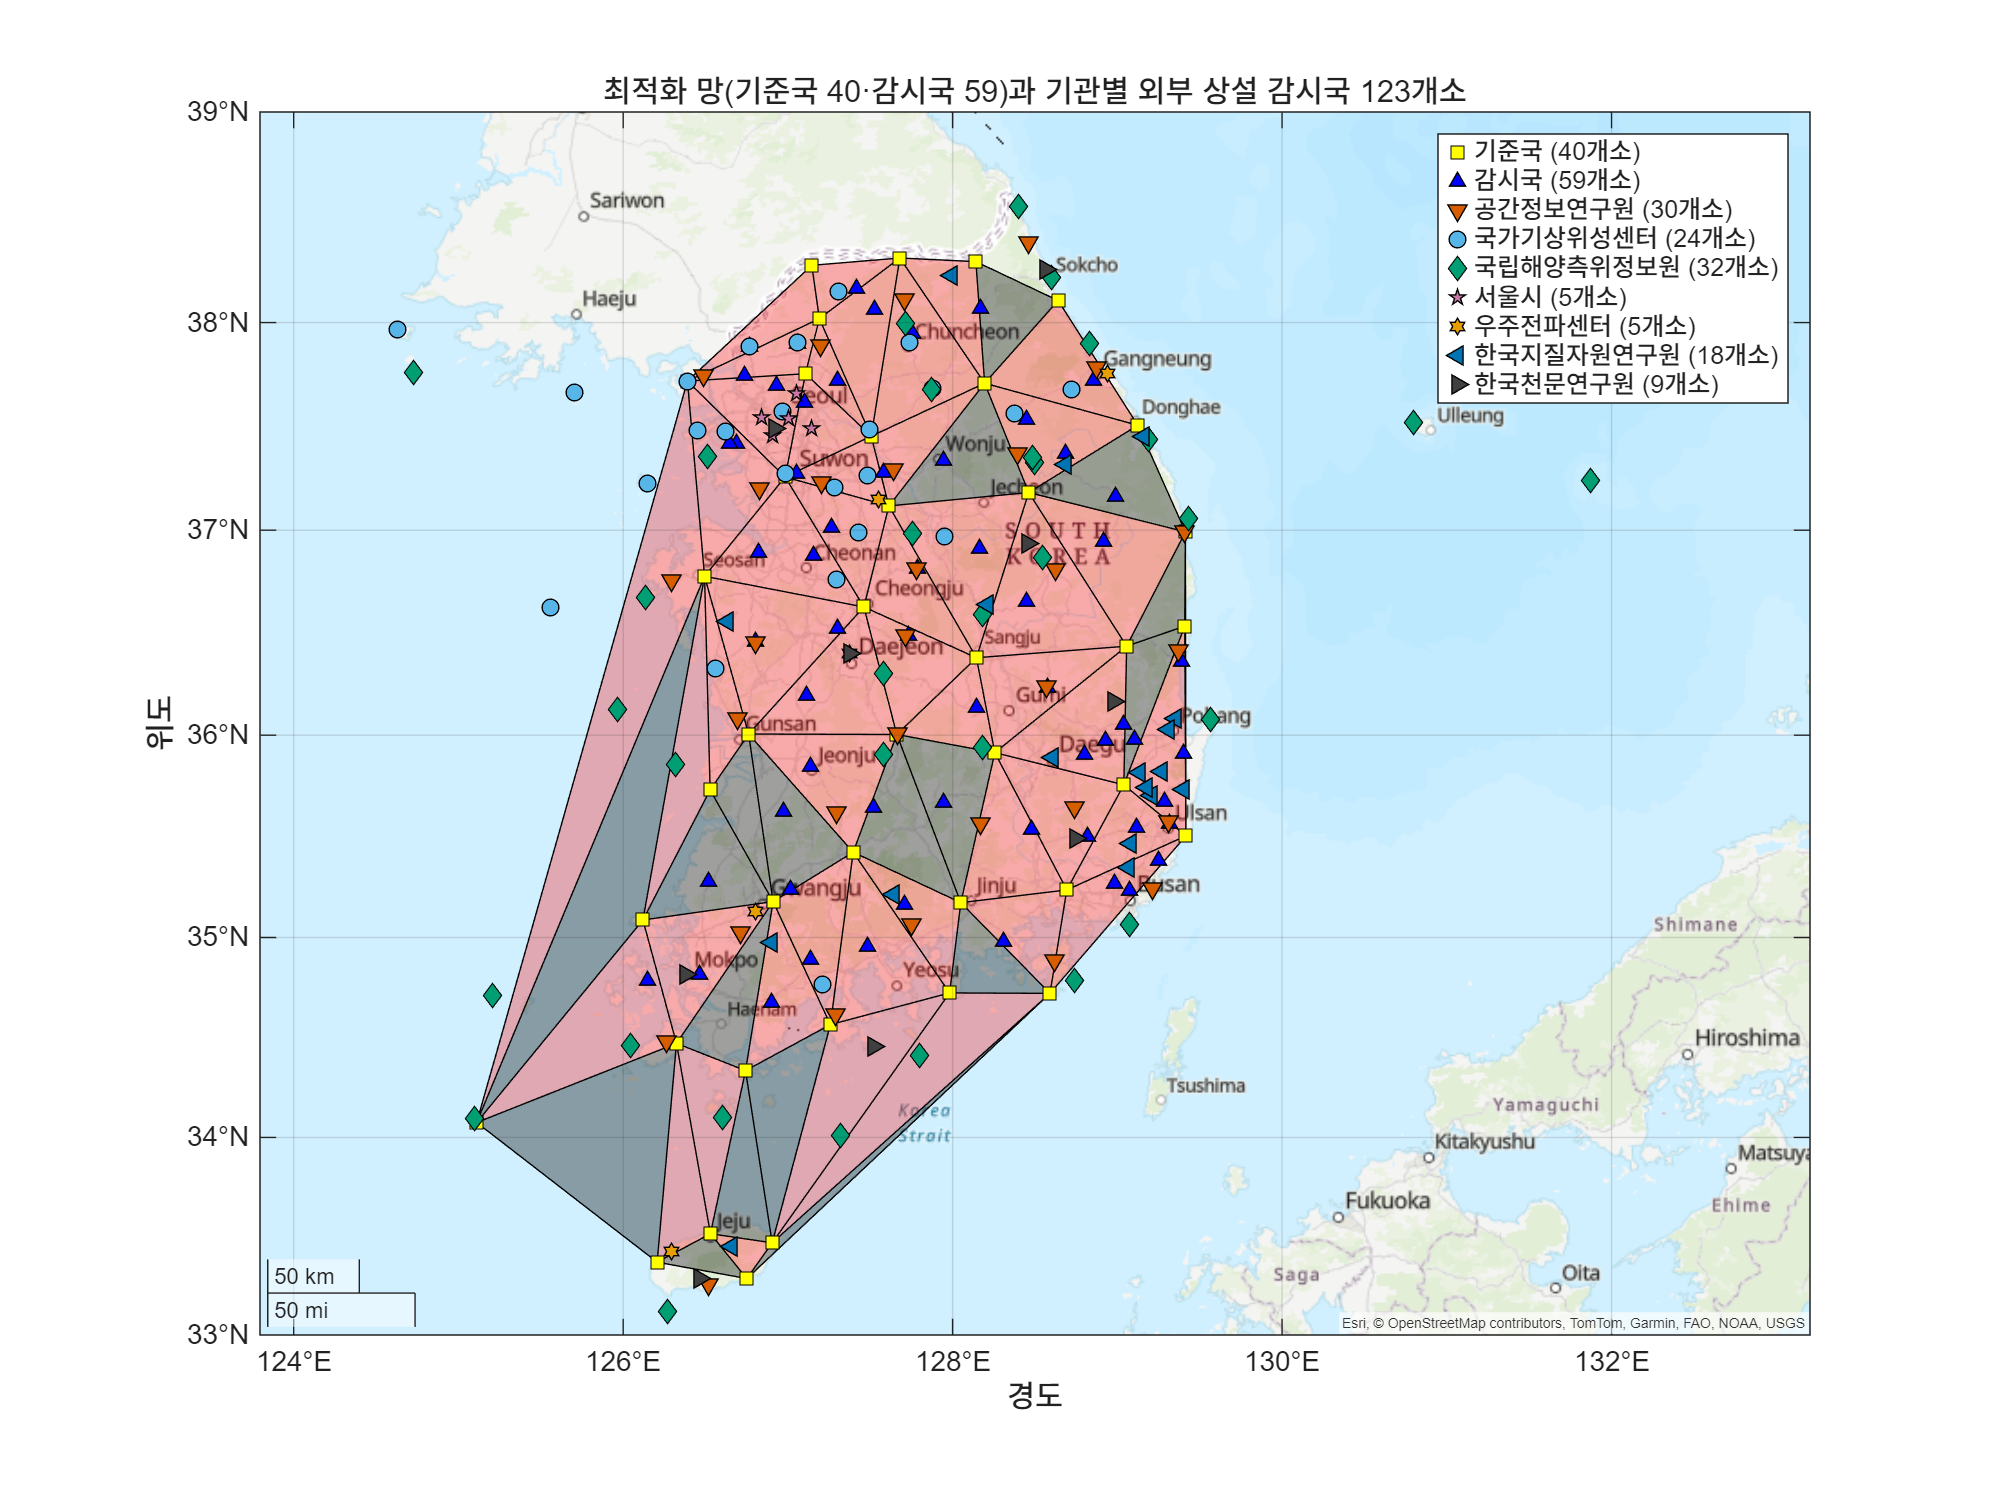
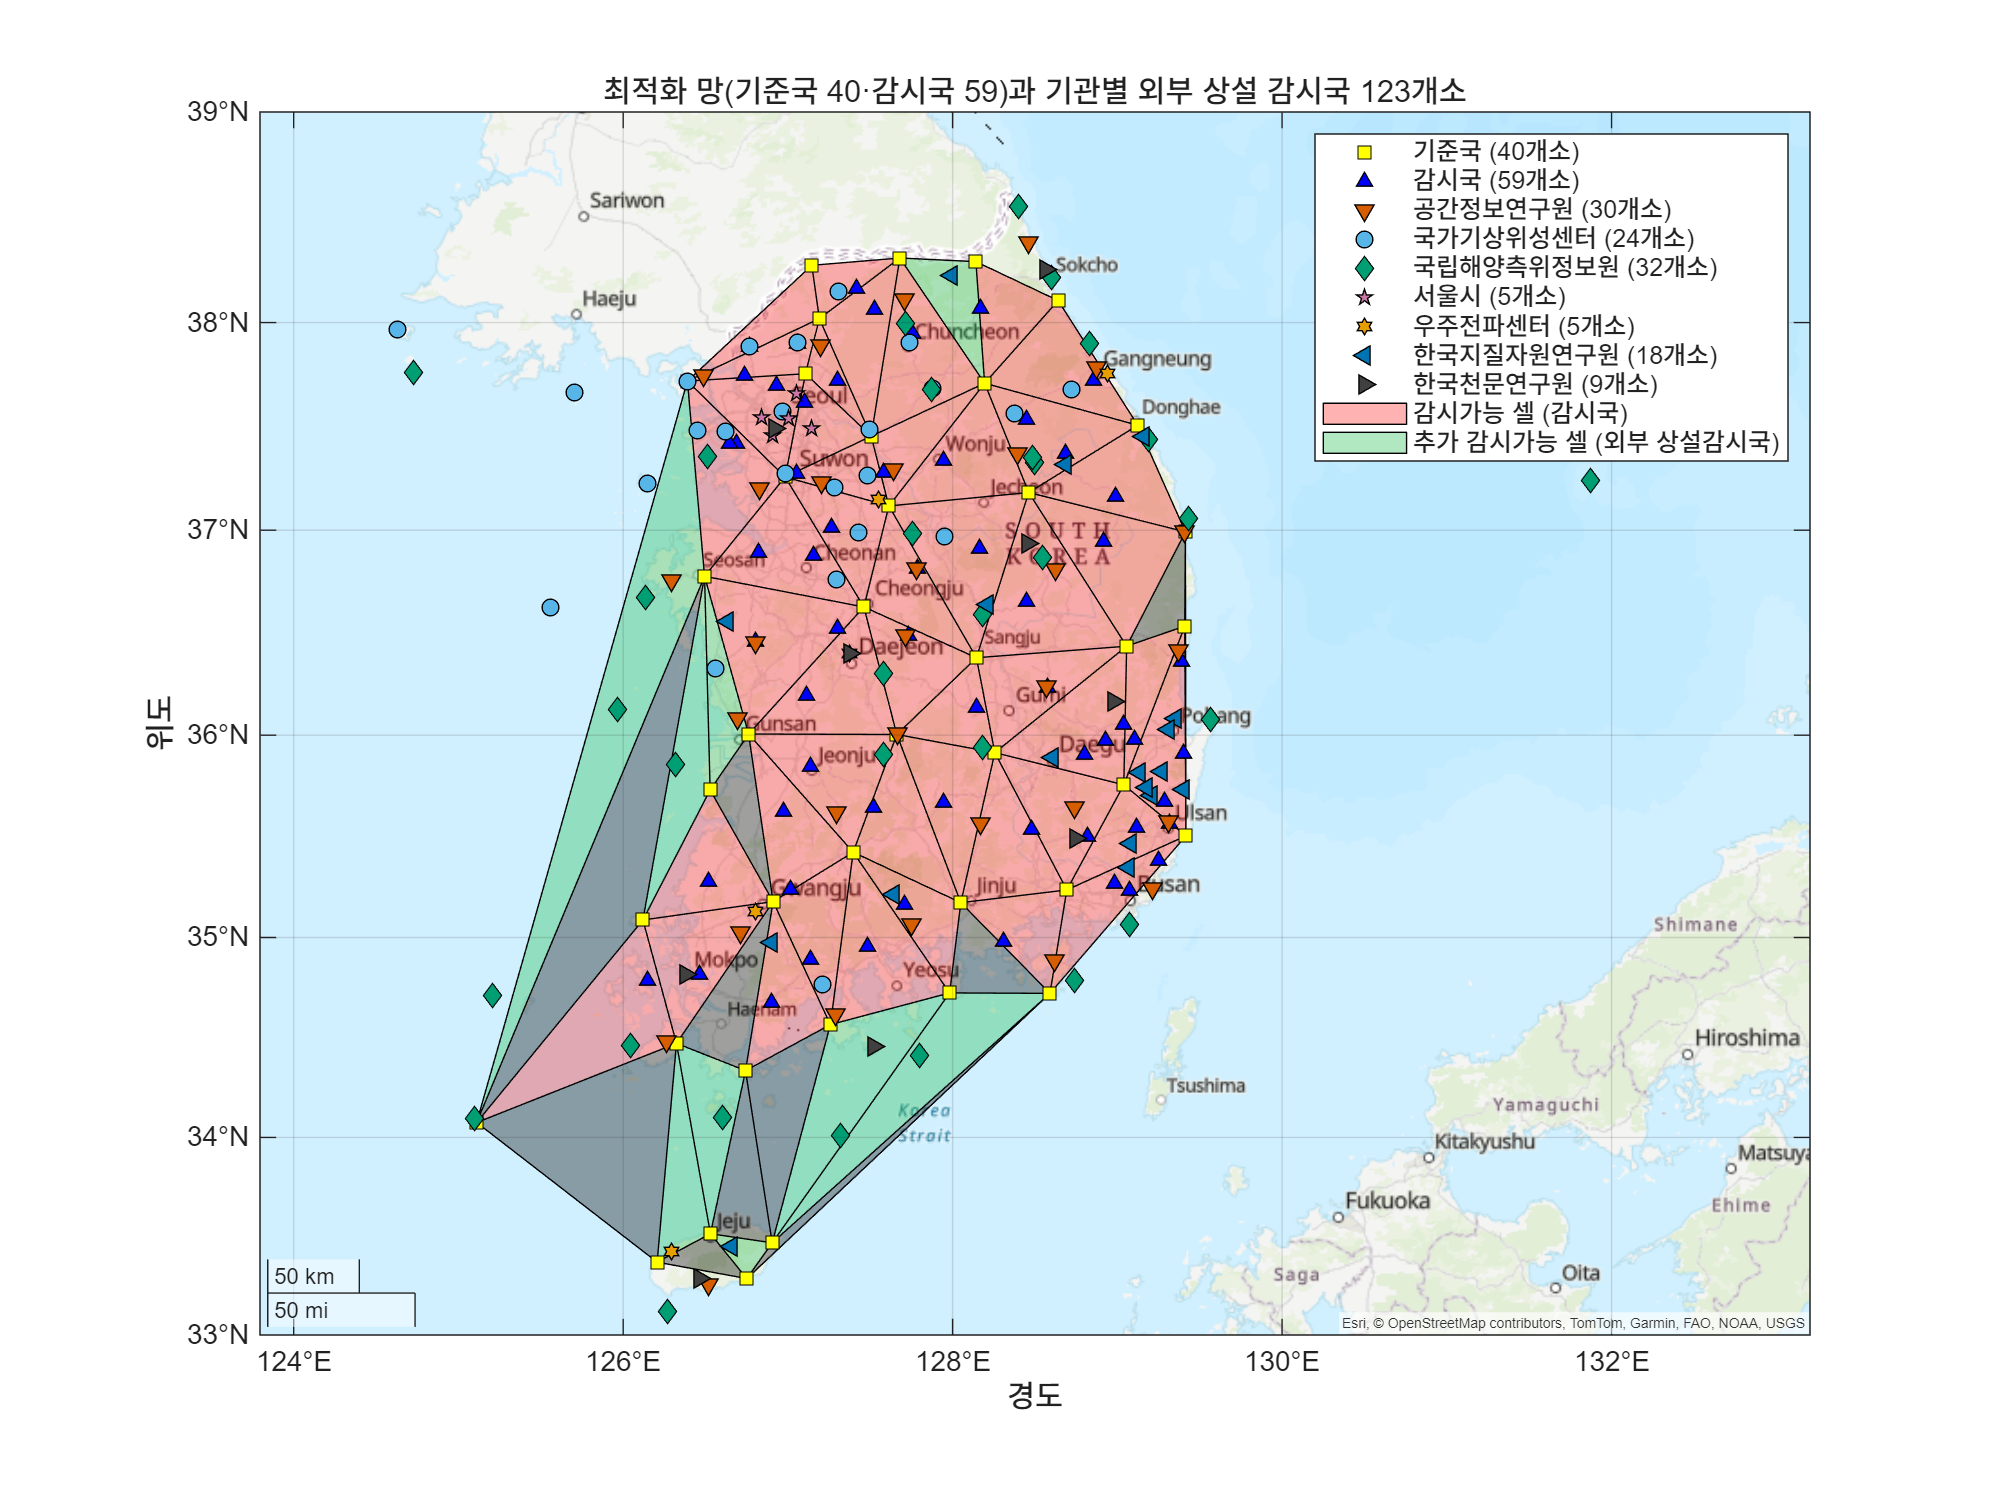
CORS 오버레이 셀 활성화 2색 표기 (피드백 반영)
- 감시국 유효셀 활성화 누락 수정: 감시국 포함 셀 46개를 표준 활성화 색(빨강)으로 표기
- 외부 상설감시국만 포함한 셀 9개는 초록으로 구분 (추가 감시가능 자원,
  run_plot_integrated 색 관례와 통일)
- 범례에 셀 분류 2종 추가, 콘솔에 유효셀/외부만/중복(38개) 집계 출력

Claude-Session: https://claude.ai/code/session_01UYcRwiTz1XWkLPAKJQoUpf

diff --git a/2차/망최적화/plots/run_plot_cors.m b/2차/망최적화/plots/run_plot_cors.m
@@ -3,7 +3,11 @@
 %          load_cors_external.m). 기관(mngr_nm)별로 마커·색을 구분해 표기한다.
 %  - 국토지리정보원 소속국은 우리 위성기준점 계열(기준국/감시국으로 이미 표기)이라
 %    오버레이에서 제외 — "외부" 7개 기관만 표시.
-%  - 빨강 셀 = 외부 상설 감시국이 속한 최적화 망 셀 (우리 로직에 영향 없음, 표시만).
+%  - 셀 활성화 표기(2색):
+%      빨강 = 감시국이 속한 유효셀 (파이프라인 표준 활성화 색과 동일)
+%      초록 = 감시국은 없으나 외부 상설 감시국이 속한 셀 (추가 감시가능 자원,
+%             run_plot_integrated 의 외부 커버리지 색 관례와 동일)
+%    (외부국은 우리 최적화 로직에 영향 없음, 표시만)
 %  - status(ok/missing)는 콘솔 집계로만 보고하고 지도에는 전 지점 표기.
 close all; clear; clc;
 
@@ -52,12 +56,22 @@ agencies = unique(ext.agency);
 tri_ext = pointLocation(DT, ext.lon, ext.lat);
 inNet = ~isnan(tri_ext);
 ext_cells = unique(tri_ext(inNet));
-gray_tri = setdiff((1:size(CL,1))', ext_cells);
+
+% 셀 분류: 감시국 포함(유효셀) / 외부 상설감시국만 포함 / 비활성
+tri_mon = pointLocation(DT, lonM, latM);
+mon_cells = unique(tri_mon(~isnan(tri_mon)));
+extOnly_cells = setdiff(ext_cells, mon_cells);
+gray_tri = setdiff((1:size(CL,1))', union(mon_cells, extOnly_cells));
 
 fprintf('\n===== 외부 상설 감시국 오버레이 (%s 결과) =====\n', R.method);
 fprintf('최적화 망: 기준국 %d, 감시국 %d\n', R.nRef, R.nMon);
-fprintf('외부 상설 감시국 %d개소(%d개 기관) 중 망 내부 %d개소 (셀 %d개), 망 밖 %d개소\n', ...
-        height(ext), numel(agencies), nnz(inNet), numel(ext_cells), nnz(~inNet));
+fprintf('외부 상설 감시국 %d개소(%d개 기관) 중 망 내부 %d개소, 망 밖 %d개소\n', ...
+        height(ext), numel(agencies), nnz(inNet), nnz(~inNet));
+fprintf('셀 활성화: 감시국 유효셀 %d개(빨강) + 외부국만 포함 셀 %d개(초록) = 총 %d개 / 전체 %d개\n', ...
+        numel(mon_cells), numel(extOnly_cells), ...
+        numel(mon_cells)+numel(extOnly_cells), size(CL,1));
+fprintf('  (외부국 포함 셀 %d개 중 %d개는 감시국 유효셀과 중복)\n', ...
+        numel(ext_cells), numel(intersect(ext_cells, mon_cells)));
 for a = agencies'
     m = ext.agency == a;
     fprintf('  %-14s 총 %3d (ok %3d / missing %3d), 망 내부 %3d\n', a, nnz(m), ...
@@ -82,9 +96,16 @@ for i = 1:numel(gray_tri)
     n = CL(gray_tri(i),:);
     geoplot(gx, geopolyshape([latR(n);latR(n(1))],[lonR(n);lonR(n(1))]),'k','EdgeColor','k','HandleVisibility','off');
 end
-for i = 1:numel(ext_cells)
-    n = CL(ext_cells(i),:);
-    geoplot(gx, geopolyshape([latR(n);latR(n(1))],[lonR(n);lonR(n(1))]),'EdgeColor','k','LineWidth',0.5,'FaceColor','r','FaceAlpha',0.3,'HandleVisibility','off');
+hCellMon = gobjects(0);  hCellExt = gobjects(0);
+for i = 1:numel(mon_cells)          % 감시국 유효셀 = 표준 활성화 색(빨강)
+    n = CL(mon_cells(i),:);
+    h = geoplot(gx, geopolyshape([latR(n);latR(n(1))],[lonR(n);lonR(n(1))]),'EdgeColor','k','LineWidth',0.5,'FaceColor','r','FaceAlpha',0.3,'HandleVisibility','off');
+    if i == 1; hCellMon = h; end
+end
+for i = 1:numel(extOnly_cells)      % 외부 상설감시국만 포함 셀 = 초록 (추가 감시가능)
+    n = CL(extOnly_cells(i),:);
+    h = geoplot(gx, geopolyshape([latR(n);latR(n(1))],[lonR(n);lonR(n(1))]),'EdgeColor','k','LineWidth',0.5,'FaceColor',[0 0.7 0.2],'FaceAlpha',0.3,'HandleVisibility','off');
+    if i == 1; hCellExt = h; end
 end
 E = edges(DT);
 lat_e = [latR(E(:,1)), latR(E(:,2)), NaN(size(E,1),1)]';
@@ -104,7 +125,10 @@ for k = 1:numel(agencies)
         'MarkerEdgeColor','k', 'MarkerFaceColor', agCol(kk,:), 'MarkerSize', 6, 'LineStyle', 'none');
     lbl{2+k} = sprintf('%s (%d개소)', agencies(k), nnz(m));
 end
-legend(gx, hh, lbl, 'Location','northeast');
+cellH = gobjects(0,1);  cellL = {};
+if ~isempty(hCellMon); cellH(end+1,1) = hCellMon; cellL{end+1} = '감시가능 셀 (감시국)'; end
+if ~isempty(hCellExt); cellH(end+1,1) = hCellExt; cellL{end+1} = '추가 감시가능 셀 (외부 상설감시국)'; end
+legend(gx, [hh; cellH], [lbl(:); cellL(:)], 'Location','northeast');
 title(gx, sprintf('최적화 망(기준국 %d·감시국 %d)과 기관별 외부 상설 감시국 %d개소', ...
       R.nRef, R.nMon, height(ext)));
 geolimits(gx, [33 39], [125 132]); hold(gx,'off');

diff --git a/2차/망최적화/plots/README.md b/2차/망최적화/plots/README.md
@@ -10,7 +10,7 @@
 |---|---|
 | `run_stats.m` | 초기/그리디/ILP 3열 통계표 + 4패널 플롯 + `stats_result.csv`(상위 폴더) |
 | `run_plot_integrated.m` | 통합 감시 커버리지 지도 (우리 감시국 빨강 ∪ 타기관 CORS 초록) |
-| `run_plot_cors.m` | 최적화 망 + 외부 상설 감시국(7개 기관, 마커·색 구분) 오버레이 지도 — `Data/CORS_coordinate_최종본.xlsx` 고시 XYZ→LLH 변환 |
+| `run_plot_cors.m` | 최적화 망 + 외부 상설 감시국(7개 기관, 마커·색 구분) 오버레이 지도 — 셀 활성화 2색(빨강=감시국 유효셀, 초록=외부국만 포함 셀), `Data/CORS_coordinate_최종본.xlsx` 고시 XYZ→LLH 변환 |
 | `ppt_step_figures.m` | 그리디 flowchart 단계별 PPT figure (input 1~7, 0=전체) → `../figure_for_ppt/*.png` |
 
 헬퍼(플롯 전용): `load_cors_external.m`(상설 감시국 고시 ECEF→GRS80 LLH 로더 — 손상 XYZ 인
